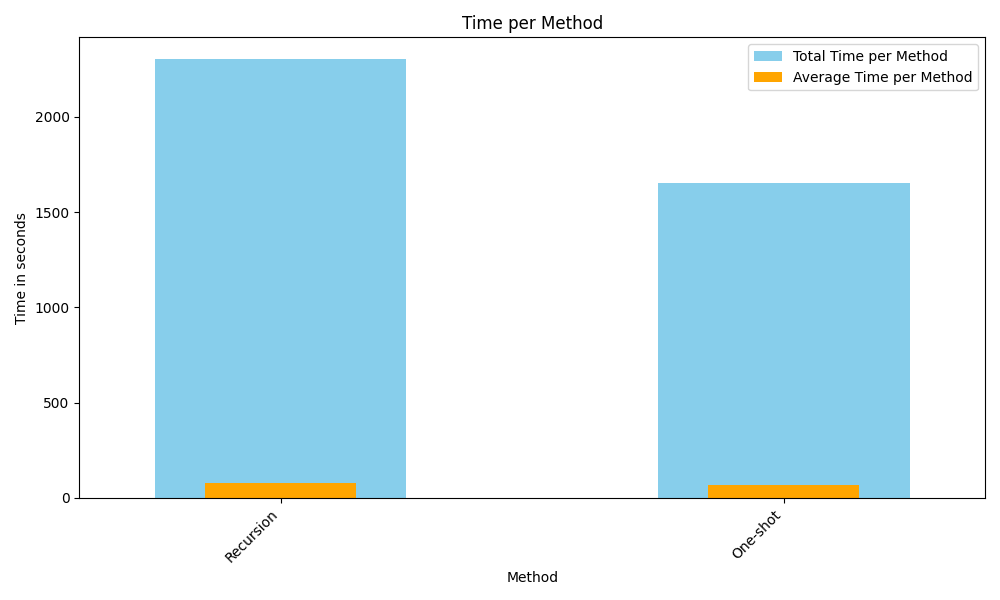
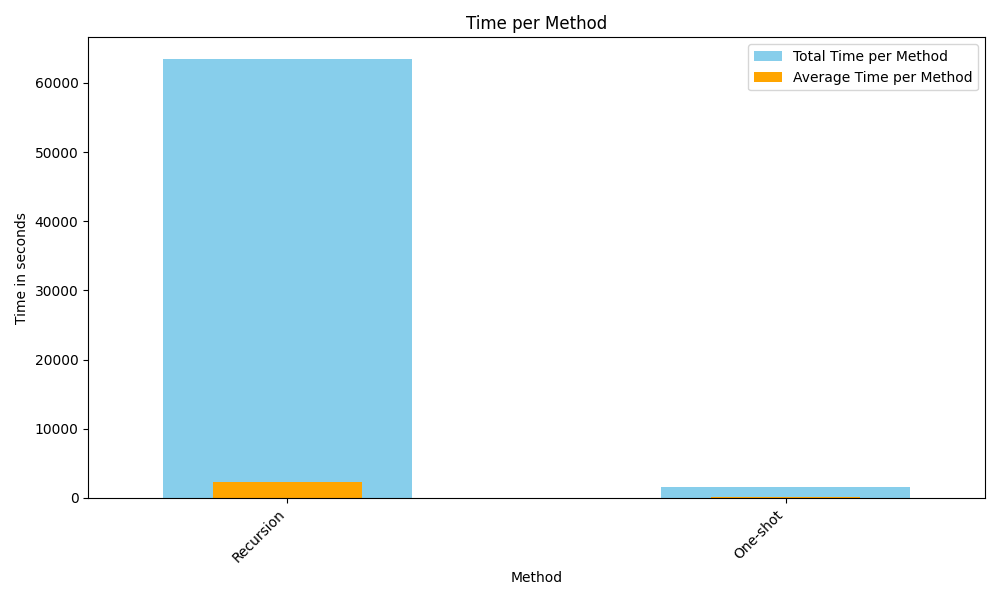
Change analysis for SM recursive vs. oneshot

diff --git a/src/Result_Analysis/time_analysis_sm/time_analysis_sm.py b/src/Result_Analysis/time_analysis_sm/time_analysis_sm.py
@@ -23,18 +23,52 @@ def main():
                 method = "One-shot"
             dataset = log_file.split("_")[0].split("-")[-1]
 
+            comp_sentence = "Time for creating Comparison Result Matrix: "
+            pred_sentence = "Time for Predicting Improvement using CatBoost: "
+            timeout_sentence = "[Monitor] Time limit exceeded"
+
+            comp_times = []
+            pred_time = None
+            timeout = False
+
             for line in lines:
-                comp_sentence = "Time for creating Comparison Result Matrix: "
-                pred_sentence = "Time for Predicting Improvement using CatBoost: "
-                if line.startswith(comp_sentence):
-                    time = line.split(comp_sentence)[1]
-                    new_row = pd.DataFrame(columns=["Method", "Dataset", "Task", "Time"])
-                    new_row.loc[len(new_row)] = [method, dataset, "Calculate Comparison Matrix", float(time)]
-                    times = pd.concat([times, new_row], ignore_index=True)
+                if timeout_sentence in line:
+                    timeout = True
+                elif line.startswith(comp_sentence):
+                    time = float(line.split(comp_sentence)[1])
+                    comp_times.append(time)
                 elif line.startswith(pred_sentence):
-                    time = line.split(pred_sentence)[1]
-                    new_row = pd.DataFrame(columns=["Method", "Dataset", "Task", "Time"])
-                    new_row.loc[len(new_row)] = [method, dataset, "Predict Improvement", float(time)]
+                    pred_time = float(line.split(pred_sentence)[1])
+
+            # Handle timeout case
+            if timeout:
+                new_row = pd.DataFrame([{
+                    "Method": method,
+                    "Dataset": dataset,
+                    "Task": "Calculate Comparison Matrix",
+                    "Time": 3600.0
+                }])
+                times = pd.concat([times, new_row], ignore_index=True)
+
+            else:
+                # Use last occurrence for Comparison Matrix
+                if comp_times:
+                    new_row = pd.DataFrame([{
+                        "Method": method,
+                        "Dataset": dataset,
+                        "Task": "Calculate Comparison Matrix",
+                        "Time": comp_times[-1]
+                    }])
+                    times = pd.concat([times, new_row], ignore_index=True)
+
+                # Add Predict Improvement time
+                if pred_time is not None:
+                    new_row = pd.DataFrame([{
+                        "Method": method,
+                        "Dataset": dataset,
+                        "Task": "Predict Improvement",
+                        "Time": pred_time
+                    }])
                     times = pd.concat([times, new_row], ignore_index=True)
 
     time_per_method = times.groupby("Method")["Time"].sum().sort_values(ascending=False)
